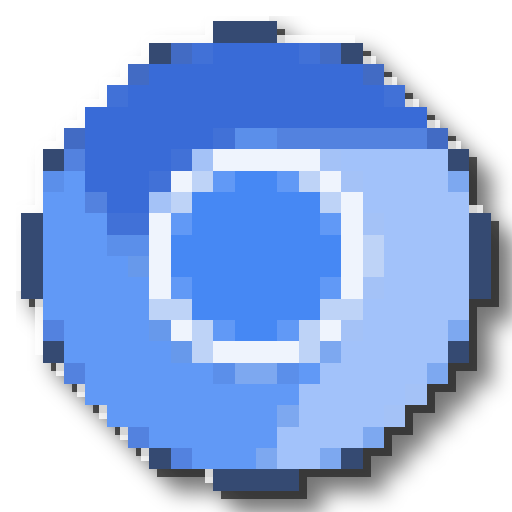
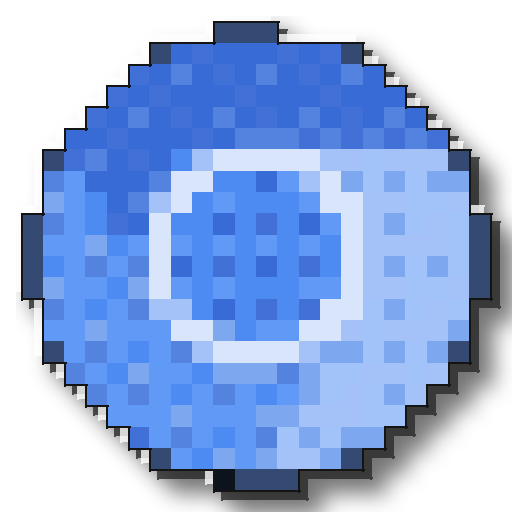
Replace bevel-only pipeline with outline + ordered dithering + adaptive/win95 palette choice; document the design dead ends (Floyd-Steinberg PIL bug, blur, over-outlining)

diff --git a/chunkify95.py b/chunkify95.py
@@ -1,18 +1,21 @@
 #!/usr/bin/env python3
 """Recreates a modern app icon in a rough Windows-98-era style: a chunky
-low-color pixelation pass, then a hand-rolled 3D bevel and drop shadow layered
-on top (the parts a pure pixelation pass can't give you, since real Win9x
-icons weren't just "modern icon but blockier" -- they were beveled, high-
-contrast, and usually had a hard drop shadow).
+low-color pixelation pass with ordered dithering, a black outline traced
+around the outer silhouette, then a hand-rolled 3D bevel and drop shadow
+layered on top (the parts a pure pixelation pass can't give you -- real
+Win9x icons are flat-shaded and cel-outlined, closer to comic inking than a
+pixelated photo filter, high-contrast, and usually have a hard drop
+shadow).
 
 This is a heuristic re-stylization, not true style transfer -- it works
 reasonably well on simple, high-contrast, single-subject icons (the common
 case for app icons) and will look mediocre on busy/photographic ones. See
-README.md for what it's actually good and bad at.
+README.md for what it's actually good and bad at, and for why dithering is
+ordered (Bayer) rather than the more obvious Floyd-Steinberg choice.
 
 Usage:
   python3 chunkify95.py --input icon.png --output-dir out/
-  python3 chunkify95.py --input icon.png --output-dir out/ --pixel-grid 20 --colors 12 --no-bevel
+  python3 chunkify95.py --input icon.png --output-dir out/ --palette win95 --pixel-grid 32
 """
 import argparse
 import os
@@ -21,12 +24,83 @@ from PIL import Image, ImageDraw, ImageFilter
 
 SIZES = [16, 22, 24, 32, 48, 256]
 
+# The real Windows/VGA 16-color palette Win95/98 used for standard desktop
+# icons (out of the 256 colors the OS technically supported). Available via
+# --palette win95 for a stricter period-accurate look; costs real color
+# richness on icons whose hues aren't close to any of these 16 (see
+# README's "Dithering, and why it's ordered not Floyd-Steinberg").
+WIN95_PALETTE = [
+    (0, 0, 0), (128, 0, 0), (0, 128, 0), (128, 128, 0),
+    (0, 0, 128), (128, 0, 128), (0, 128, 128), (192, 192, 192),
+    (128, 128, 128), (255, 0, 0), (0, 255, 0), (255, 255, 0),
+    (0, 0, 255), (255, 0, 255), (0, 255, 255), (255, 255, 255),
+]
 
-def pixelate_and_quantize(img, grid, colors):
+# 4x4 Bayer ordered-dither threshold matrix.
+BAYER_4X4 = [
+    [0, 8, 2, 10],
+    [12, 4, 14, 6],
+    [3, 11, 1, 9],
+    [15, 7, 13, 5],
+]
+
+
+def build_adaptive_palette(img_rgb, colors):
+    pal_img = img_rgb.quantize(colors=colors, method=Image.MEDIANCUT, dither=Image.NONE)
+    flat = pal_img.getpalette()[:colors * 3]
+    return [tuple(flat[i:i + 3]) for i in range(0, len(flat), 3)]
+
+
+def ordered_dither(img_rgb, palette_colors, spread=40):
+    """Ordered (Bayer 4x4) dithering: perturbs each pixel by a fixed,
+    position-based threshold before nearest-palette-color lookup. Unlike
+    error-diffusion dithering (Floyd-Steinberg), each pixel's decision is
+    independent of its neighbors' error, so it produces a regular,
+    deliberate-looking checkerboard exactly at color-transition zones
+    instead of scattered noise across the whole image -- much closer to how
+    real Win9x icon art dithers shading by hand. spread=0 disables the
+    perturbation entirely (plain nearest-color, no dither).
+
+    PIL quirk found along the way: passing dither= directly to
+    quantize(method=MEDIANCUT, ...) is silently ignored -- verified by
+    diffing output with dither=NONE vs. dither=FLOYDSTEINBERG on the same
+    call, byte-identical. Even worked around (dither only takes effect
+    remapping onto an *already-built* palette), Floyd-Steinberg's cascading
+    error was tried and rejected: on a fixed small palette it produces
+    chaotic per-pixel noise rather than the sparse, deliberate dithering
+    real icons have. This hand-rolled ordered dither replaced it entirely.
+    """
+    w, h = img_rgb.size
+    px = img_rgb.load()
+    out = Image.new("RGB", (w, h))
+    out_px = out.load()
+    n = len(BAYER_4X4)
+    for y in range(h):
+        for x in range(w):
+            r, g, b = px[x, y]
+            t = (BAYER_4X4[y % n][x % n] / (n * n) - 0.5) * spread
+            r2 = max(0, min(255, r + t))
+            g2 = max(0, min(255, g + t))
+            b2 = max(0, min(255, b + t))
+            out_px[x, y] = min(palette_colors, key=lambda c: (c[0] - r2) ** 2 + (c[1] - g2) ** 2 + (c[2] - b2) ** 2)
+    return out
+
+
+def pixelate_and_quantize(img, grid, colors, palette="adaptive", dither_spread=40):
     """The "pixel analyze" pass: downsample to a small grid (area-averaging,
     so each output pixel is the dominant color of its source block, not just
-    a sample), then quantize to a limited palette, then scale back up with
+    a sample), then quantize with ordered dithering (see ordered_dither) at
+    this low grid resolution -- before the nearest-neighbor upscale, so the
+    dither pattern itself comes out as chunky, clearly visible pixel
+    squares instead of a fine-grained texture -- then scale back up with
     nearest-neighbor to keep hard pixel edges instead of blur.
+
+    palette="adaptive" (default) builds a best-fit palette of `colors`
+    colors for this specific image -- keeps the source's actual hues
+    recognizable. palette="win95" instead remaps onto the real fixed
+    16-color Windows palette (WIN95_PALETTE); more period-accurate, but
+    loses real color fidelity on hues that aren't close to any of the 16
+    (an icon's purple, for instance, has no close match and ends up gray).
     """
     w, h = img.size
     size = max(w, h)
@@ -38,8 +112,8 @@ def pixelate_and_quantize(img, grid, colors):
     alpha = square.split()[-1]
 
     small = square.convert("RGB").resize((grid, grid), Image.BOX)
-    quantized = small.quantize(colors=colors, method=Image.MEDIANCUT, dither=Image.NONE)
-    quantized_rgb = quantized.convert("RGB")
+    palette_colors = WIN95_PALETTE if palette == "win95" else build_adaptive_palette(small, colors)
+    quantized_rgb = ordered_dither(small, palette_colors, spread=dither_spread)
 
     small_alpha = alpha.resize((grid, grid), Image.BOX).point(lambda p: 255 if p > 96 else 0)
 
@@ -48,6 +122,46 @@ def pixelate_and_quantize(img, grid, colors):
     pixel_img.putalpha(small_alpha)
 
     return pixel_img.resize((size, size), Image.NEAREST)
+
+
+def add_pixel_outline(img, grid, thickness=None, color=(20, 20, 20, 255)):
+    """Traces a black outline around the outer silhouette only (the
+    transparent-to-opaque boundary) -- not between every internal color
+    cell. An early version of this outlined every color boundary, which
+    over-inks flat-shaded regions into a stained-glass look real icons don't
+    have. Reference icons only hard-outline the overall shape; internal
+    color transitions are handled by dithering (see pixelate_and_quantize),
+    not by lines.
+    """
+    size = img.size[0]
+    block = size / grid
+    thickness = thickness or max(1, round(size / 340))
+    px = img.load()
+
+    def cell_opaque(cx, cy):
+        if cx < 0 or cy < 0 or cx >= grid or cy >= grid:
+            return False
+        sx = min(int((cx + 0.5) * block), size - 1)
+        sy = min(int((cy + 0.5) * block), size - 1)
+        return px[sx, sy][3] >= 10
+
+    out = img.copy()
+    draw = ImageDraw.Draw(out)
+    for cy in range(grid):
+        for cx in range(grid):
+            if not cell_opaque(cx, cy):
+                continue
+            x0, y0 = cx * block, cy * block
+            x1, y1 = (cx + 1) * block, (cy + 1) * block
+            if not cell_opaque(cx + 1, cy):
+                draw.line([(x1, y0), (x1, y1 + thickness)], fill=color, width=thickness)
+            if not cell_opaque(cx, cy + 1):
+                draw.line([(x0, y1), (x1 + thickness, y1)], fill=color, width=thickness)
+            if not cell_opaque(cx - 1, cy):
+                draw.line([(x0, y0), (x0, y1 + thickness)], fill=color, width=thickness)
+            if not cell_opaque(cx, cy - 1):
+                draw.line([(x0, y0), (x1 + thickness, y0)], fill=color, width=thickness)
+    return out
 
 
 def add_bevel(img, thickness=None):
@@ -92,9 +206,11 @@ def add_drop_shadow(img, offset=None, blur=None, opacity=140):
     return canvas
 
 
-def chunkify95(img, pixel_grid=24, colors=16, bevel=True, shadow=True):
+def chunkify95(img, pixel_grid=24, colors=12, bevel=True, shadow=True, outline=True, palette="adaptive", dither_spread=40):
     img = img.convert("RGBA")
-    out = pixelate_and_quantize(img, pixel_grid, colors)
+    out = pixelate_and_quantize(img, pixel_grid, colors, palette, dither_spread)
+    if outline:
+        out = add_pixel_outline(out, pixel_grid)
     if bevel:
         out = add_bevel(out)
     if shadow:
@@ -106,19 +222,25 @@ def main():
     p = argparse.ArgumentParser(description=__doc__, formatter_class=argparse.RawDescriptionHelpFormatter)
     p.add_argument("--input", required=True)
     p.add_argument("--output-dir", required=True)
-    p.add_argument("--pixel-grid", type=int, default=24, help="downsample grid size before upscaling (default: 24)")
-    p.add_argument("--colors", type=int, default=16, help="palette size (default: 16)")
+    p.add_argument("--pixel-grid", type=int, default=24,
+                    help="downsample grid size before upscaling (default: 24). win95 palette benefits from a higher grid (try 32) to compensate for having only 16 colors")
+    p.add_argument("--colors", type=int, default=12, help="adaptive palette size, ignored unless --palette adaptive (default: 12)")
+    p.add_argument("--palette", choices=["adaptive", "win95"], default="adaptive",
+                    help="adaptive (default): best-fit palette per image, keeps real color fidelity. win95: real fixed 16-color VGA palette, more period-accurate but loses hues with no close match.")
+    p.add_argument("--dither-spread", type=int, default=40, help="ordered-dither strength, 0 disables (default: 40)")
     p.add_argument("--bevel", dest="bevel", action="store_true", default=True)
     p.add_argument("--no-bevel", dest="bevel", action="store_false")
     p.add_argument("--shadow", dest="shadow", action="store_true", default=True)
     p.add_argument("--no-shadow", dest="shadow", action="store_false")
+    p.add_argument("--outline", dest="outline", action="store_true", default=True)
+    p.add_argument("--no-outline", dest="outline", action="store_false")
     p.add_argument("--sizes", default=",".join(str(s) for s in SIZES))
     args = p.parse_args()
 
     os.makedirs(args.output_dir, exist_ok=True)
     src = Image.open(args.input)
 
-    master = chunkify95(src, args.pixel_grid, args.colors, args.bevel, args.shadow)
+    master = chunkify95(src, args.pixel_grid, args.colors, args.bevel, args.shadow, args.outline, args.palette, args.dither_spread)
     master_size = 512
     master_out = master.resize((master_size, master_size), Image.LANCZOS) if master.size[0] != master_size else master
     master_out.save(os.path.join(args.output_dir, "icon-master.png"))

diff --git a/README.md b/README.md
@@ -1,9 +1,11 @@
 # chunkify95
 
 Recreates a modern app icon in a rough Windows-98-era style: pixel-analyze
-the source down to a chunky low-color grid, then layer on a hand-rolled 3D
-bevel and hard drop shadow, the two things that actually make an icon read
-as "Win98" and that a pixelation pass alone won't give you.
+the source down to a chunky low-color grid with dithering, trace a black
+outline around the silhouette, then layer on a hand-rolled 3D bevel and
+hard drop shadow. Those last three things, not just the pixelation, are
+what actually make an icon read as "Win98" instead of "photo with a
+pixelate filter applied."
 
 | Source | Result | Source | Result |
 |---|---|---|---|
@@ -35,11 +37,19 @@ Produces `icon-master.png` (512×512) plus `icon-16.png` .. `icon-256.png`
 Options:
 
 ```
---pixel-grid N   downsample grid before upscaling back up (default: 24)
---colors N       palette size (default: 16)
---no-bevel       skip the 3D bevel pass
---no-shadow      skip the drop shadow
---sizes 16,32,48 comma-separated output sizes
+--pixel-grid N     downsample grid size before upscaling (default: 24).
+                    win95 palette benefits from a higher grid (try 32) to
+                    compensate for having only 16 colors to work with.
+--colors N         adaptive palette size, ignored unless --palette adaptive (default: 12)
+--palette MODE     adaptive (default): best-fit palette per image, keeps
+                    real color fidelity. win95: the real fixed 16-color
+                    VGA palette, more period-accurate but loses hues with
+                    no close match (see below).
+--dither-spread N  ordered-dither strength, 0 disables (default: 40)
+--no-bevel         skip the 3D bevel pass
+--no-shadow        skip the drop shadow
+--no-outline       skip the black silhouette outline
+--sizes 16,32,48   comma-separated output sizes
 ```
 
 ## How it works
@@ -47,17 +57,75 @@ Options:
 1. **Pixel-analyze**: the source is pasted onto a square canvas, downsampled
    to an `N×N` grid with box (area-average) filtering, so each output cell
    is the *dominant* color of its source region rather than a single sampled
-   pixel, then quantized to a limited palette (`Image.quantize`, median-cut).
-   The alpha channel is thresholded separately so transparency stays crisp
-   instead of picking up quantization noise.
-2. **Upscale with nearest-neighbor** back to full size, keeping hard pixel
+   pixel.
+2. **Quantize with ordered dithering**: each cell is mapped to the nearest
+   color in the palette (adaptive or win95, see `--palette`), after
+   perturbing it by a small, position-based threshold (a 4×4 Bayer matrix).
+   This produces a deliberate, regular checkerboard exactly at color-
+   transition zones instead of either a flat block or scattered noise. See
+   "Dithering, and why it's ordered, not Floyd-Steinberg" below.
+3. **Upscale with nearest-neighbor** back to full size, keeping hard pixel
    edges instead of blur.
-3. **Bevel**: a lighter copy of the icon's silhouette is offset up-left and
-   a darker copy down-right, both composited behind the pixelated icon,
-   approximating the light-top/dark-bottom 3D edge every real Win9x icon has,
-   without actually tracing per-pixel normals.
-4. **Drop shadow**: a blurred, offset black copy of the silhouette, behind
+4. **Outline**: a black line traced around the outer silhouette only (the
+   transparent-to-opaque boundary), not between every internal color cell.
+5. **Bevel**: a lighter copy of the icon's silhouette offset up-left and a
+   darker copy offset down-right, both composited behind the icon,
+   approximating the light-top/dark-bottom 3D edge every real Win9x icon
+   has.
+6. **Drop shadow**: a blurred, offset black copy of the silhouette, behind
    everything.
+
+## Dithering, and why it's ordered, not Floyd-Steinberg
+
+The first working version of this used `PIL.Image.quantize(...,
+dither=Image.FLOYDSTEINBERG)`, and it did nothing. Diffing the output
+against `dither=Image.NONE` on the same call showed byte-identical results:
+turns out PIL silently ignores the `dither` argument when combined with
+`method=Image.MEDIANCUT`. It only takes effect when remapping onto an
+*already-built* palette, so building the palette and applying it with
+dithering has to be two separate calls.
+
+Fixed that, and Floyd-Steinberg still barely showed up, for a more
+fundamental reason: it only dithers where the palette can't represent a
+color exactly, and an *adaptive* palette is built to fit the source image,
+so there's rarely much to correct. Switching to the actual fixed win95
+16-color palette did force dithering, but error-diffusion cascading
+through 16 colors produced chaotic per-pixel noise, closer to a scrambled
+GIF than a hand-shaded icon.
+
+Ordered (Bayer 4×4) dithering fixed both problems at once. Each pixel's
+dither decision depends only on its position in a fixed repeating
+threshold pattern, not on accumulated error from previous pixels, so it
+produces a *deliberate*, regular checkerboard concentrated at actual color
+transitions, closer to how a real pixel artist would hand-place dither for
+shading, instead of scattered noise across the whole image.
+
+## Adaptive vs. win95 palette
+
+Windows 95 primarily used a 16-color palette for standard desktop icons
+(the OS technically supported up to 256). Using that literal fixed
+palette (`--palette win95`) is more historically accurate, but real icons
+were hand-drawn by artists choosing which of those colors to use per
+region, not automatically quantized against them. Run it automatically on
+a modern icon and any hue without a close match in those 16 colors just
+degrades: a source purple, with nothing near it in the palette, ends up
+flattened to gray. The default `adaptive` palette keeps a source's actual
+colors recognizable, which matters more for actually identifying the app
+than strict period accuracy does. If you do use `--palette win95`, raise
+`--pixel-grid` (32 works well). More spatial resolution gives the dither
+pattern more room to carry detail that the smaller palette can't represent
+directly.
+
+## The win95 palette, for reference
+
+Same five icons, `--palette win95 --pixel-grid 32` instead of the adaptive
+default. Compare against the table at the top: more period-accurate colors,
+noticeably less vibrant, but still legible thanks to the higher grid
+resolution.
+
+| win95 palette |
+|---|
+| ![gear win95 palette](examples/gear-win98-win95palette.png) ![Firefox win95 palette](examples/firefox-win98-win95palette.png) ![Chromium win95 palette](examples/chromium-win98-win95palette.png) ![Steam win95 palette](examples/steam-win98-win95palette.png) ![Code - OSS win95 palette](examples/code-oss-win98-win95palette.png) |
 
 ## What it's good at
 
@@ -72,9 +140,9 @@ This is a heuristic re-stylization, not true style transfer, and I'd rather
 say that up front than let you find out from a muddy result. It will
 struggle with:
 
-- **Photographic or gradient-heavy icons**: median-cut quantization on a
-  smooth gradient produces visible banding rather than a clean palette; the
-  block-averaging can also muddy fine detail into an indistinct blob.
+- **Photographic or gradient-heavy icons**: dithering helps more here than
+  flat quantization alone would, but extreme detail still won't survive
+  the downsample to a small grid.
 - **Icons that are already mostly white/near-transparent**: the alpha
   threshold in the pixelation pass can clip soft edges more aggressively
   than intended.
